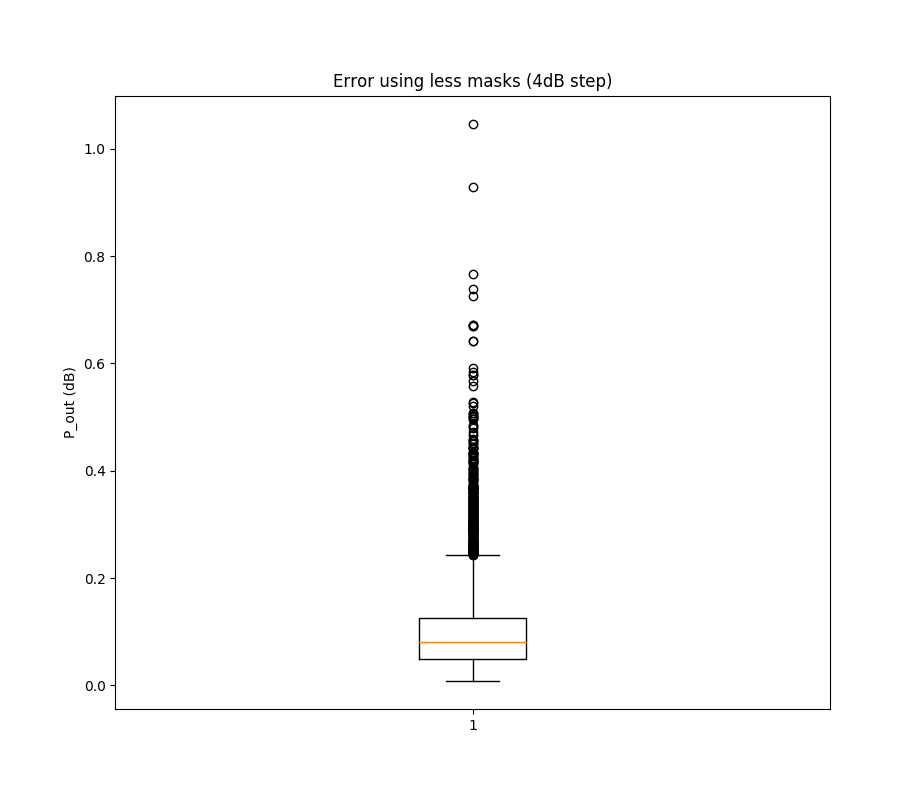
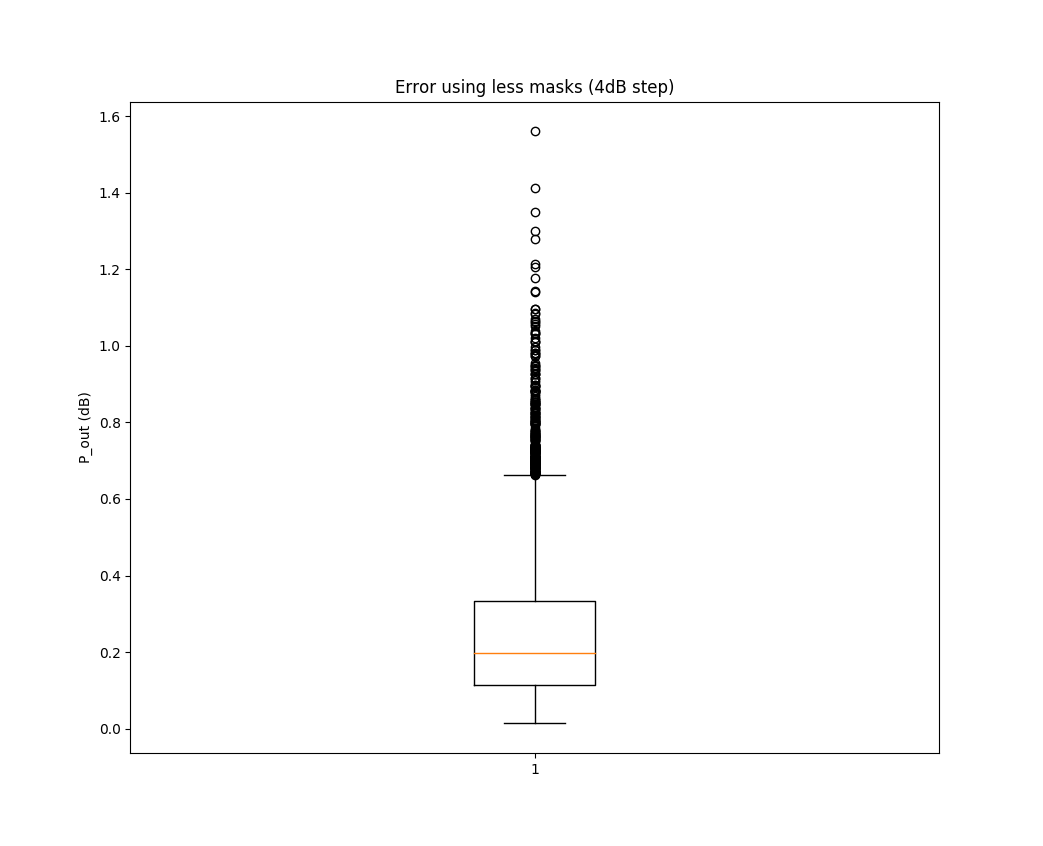
Adicionando boxplot unificado e corrigindo erro de cálculo para teste com menos máscaras

diff --git a/adaptacao/Second method/Normalization per feature/One Amp (with K-Fold Cross Validation)/errorWithLessMasks.py b/adaptacao/Second method/Normalization per feature/One Amp (with K-Fold Cross Validation)/errorWithLessMasks.py
@@ -74,18 +74,21 @@ test_data = np.array(test_data)
 max_gset = training_data[0][0]
 min_gset = training_data[0][0]
 
-for i in range(1, training_data.shape[0]):
+# Pin
+max_pin = training_data[0][1]
+min_pin = training_data[0][1]
+
+# Pout
+max_pout = training_data[0][41]
+min_pout = training_data[0][41]
+
+for i in range(0, training_data.shape[0]):
 	if training_data[i][0] > max_gset:
 		max_gset = training_data[i][0]
 		continue
 	if training_data[i][0] < min_gset:
 		min_gset = training_data[i][0]
 
-# Pin
-max_pin = training_data[0][1]
-min_pin = training_data[0][1]
-
-for i in range(0, training_data.shape[0]):
 	for j in range(1, 41):
 		if training_data[i][j] > max_pin:
 			max_pin = training_data[i][j]
@@ -93,11 +96,6 @@ for i in range(0, training_data.shape[0]):
 		if training_data[i][j] < min_pin:
 			min_pin = training_data[i][j]
 
-# Pout
-max_pout = training_data[0][42]
-min_pout = training_data[0][42]
-
-for i in range(0, training_data.shape[0]):
 	for j in range(41, 81):
 		if training_data[i][j] > max_pout:
 			max_pout = training_data[i][j]
@@ -149,7 +147,7 @@ for i in range(0 , output.shape[0]):
     current_diff = 0
     for j in range(0, output.shape[1]):
         current_diff += abs(test_data[i, 41+j] - output[i, j])
-    diff.append(current_diff/test_data.shape[1])
+    diff.append(current_diff/output.shape[1])
 
 ## Plot result
 plt.boxplot(diff)
